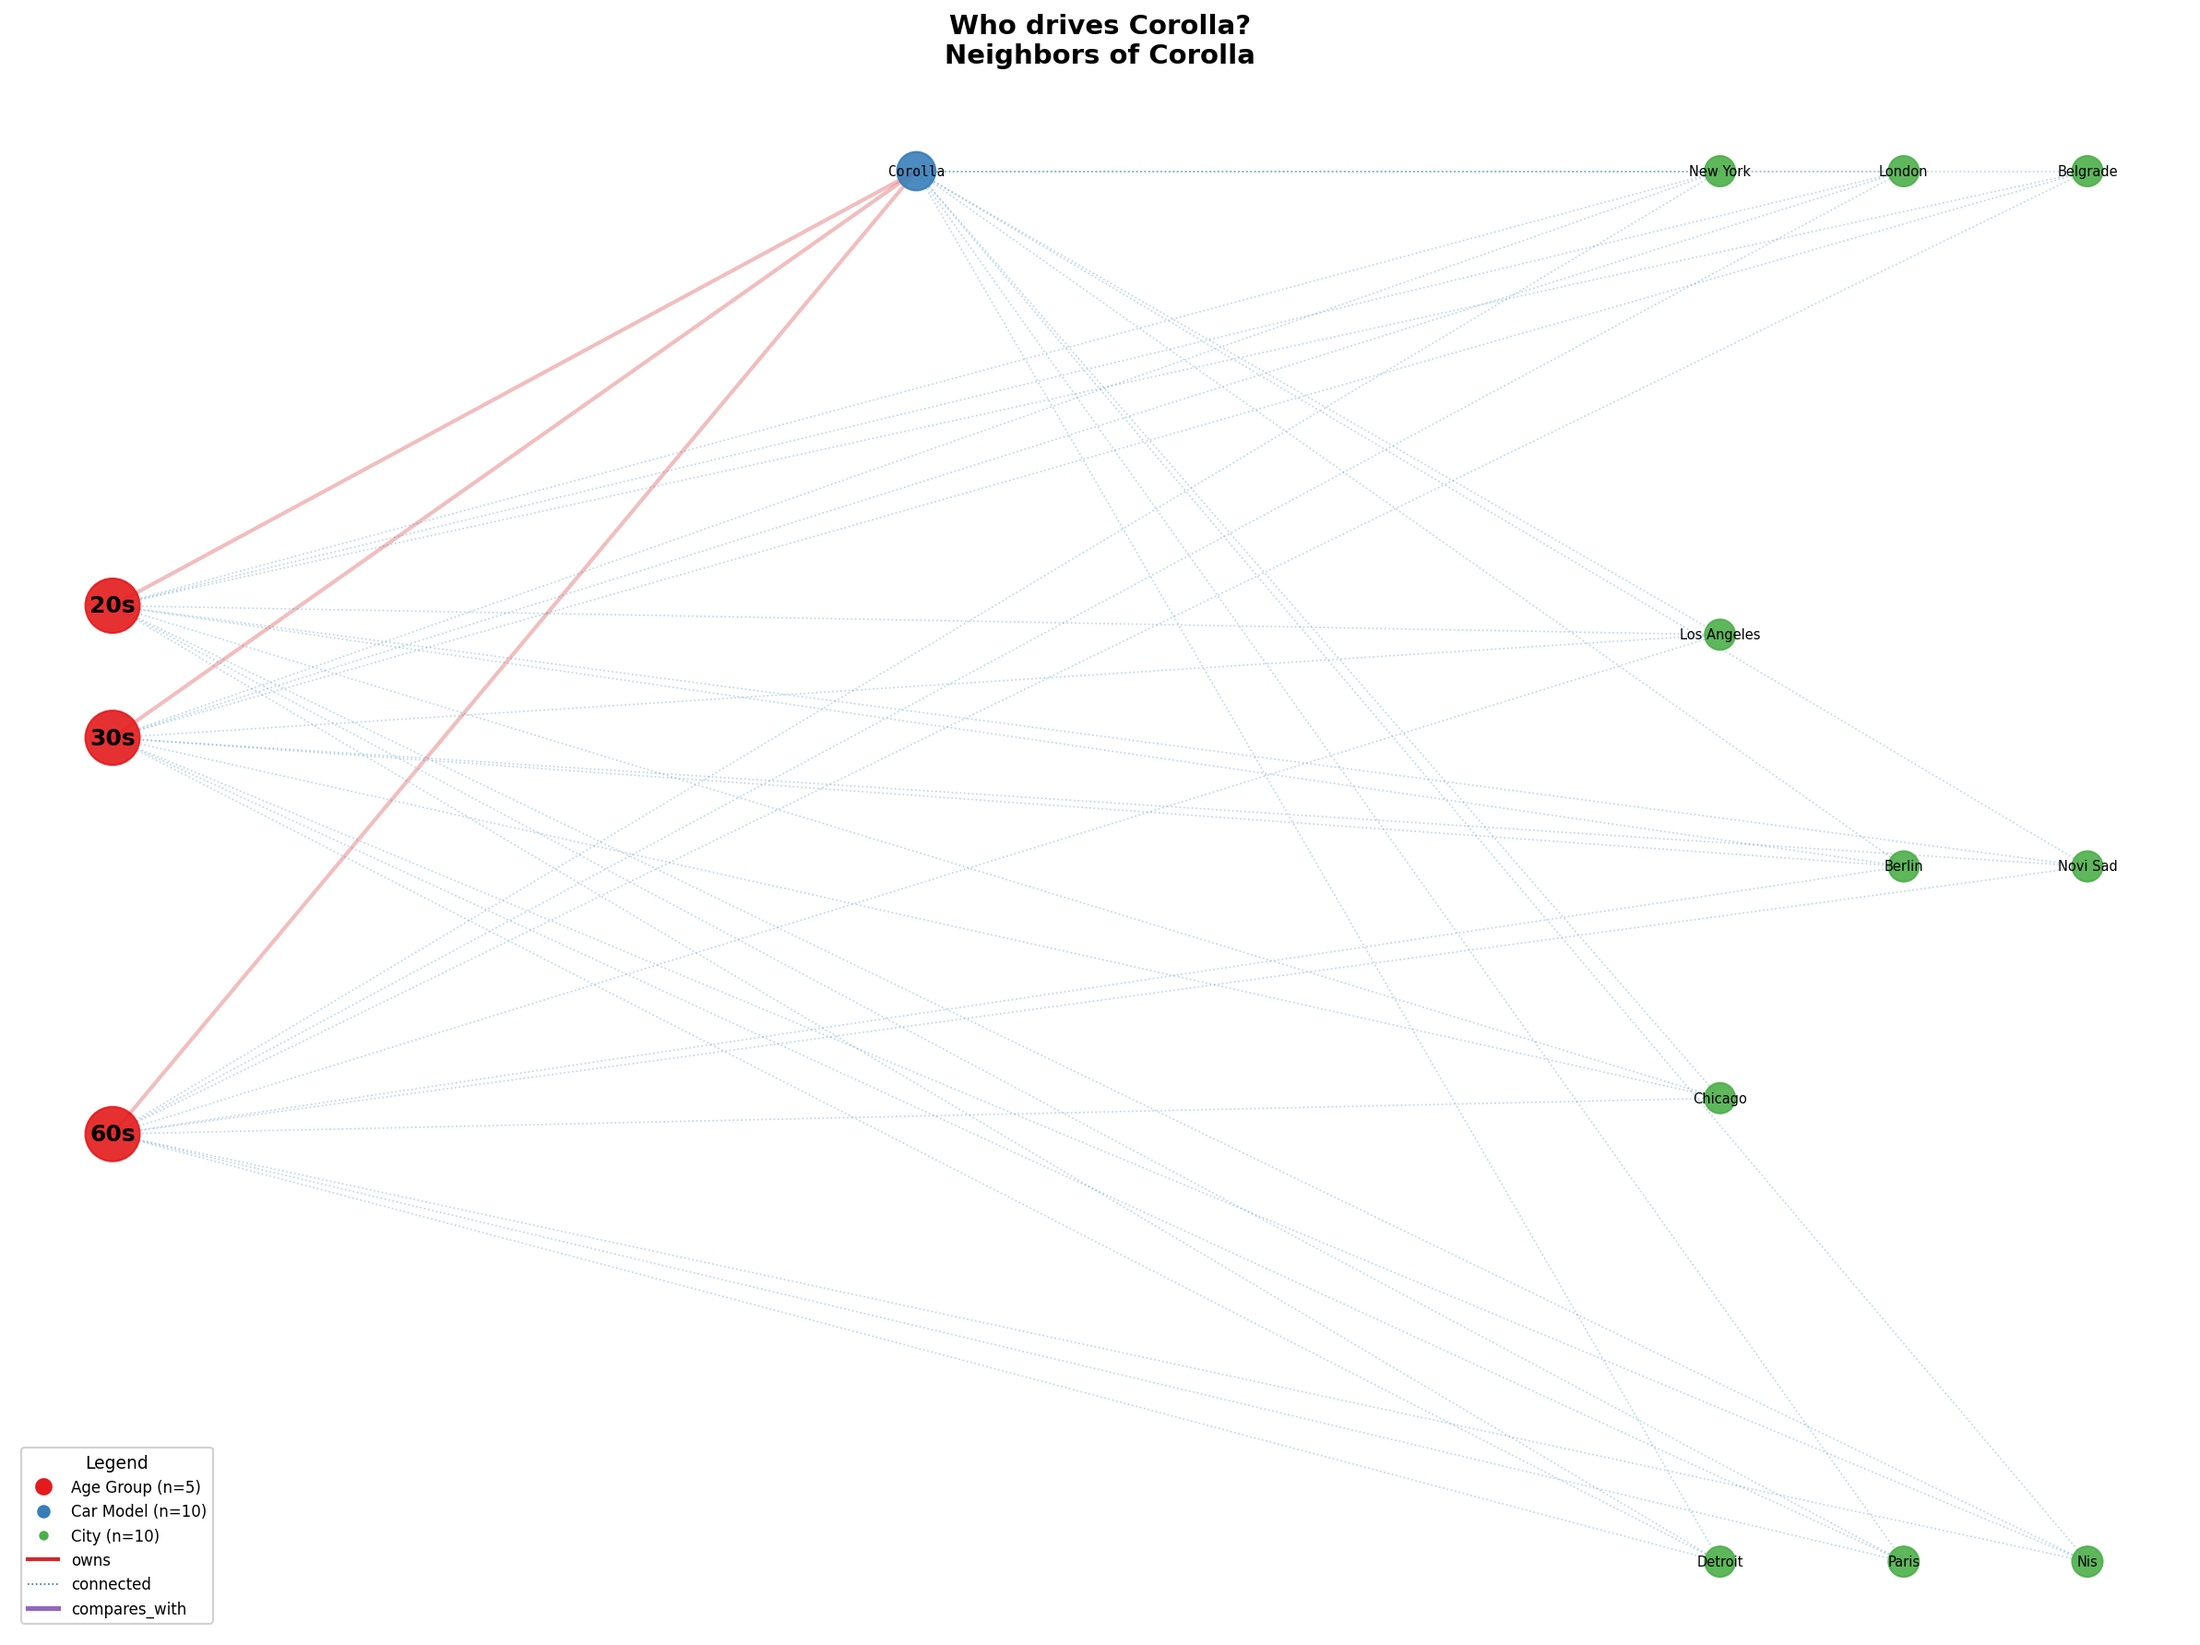
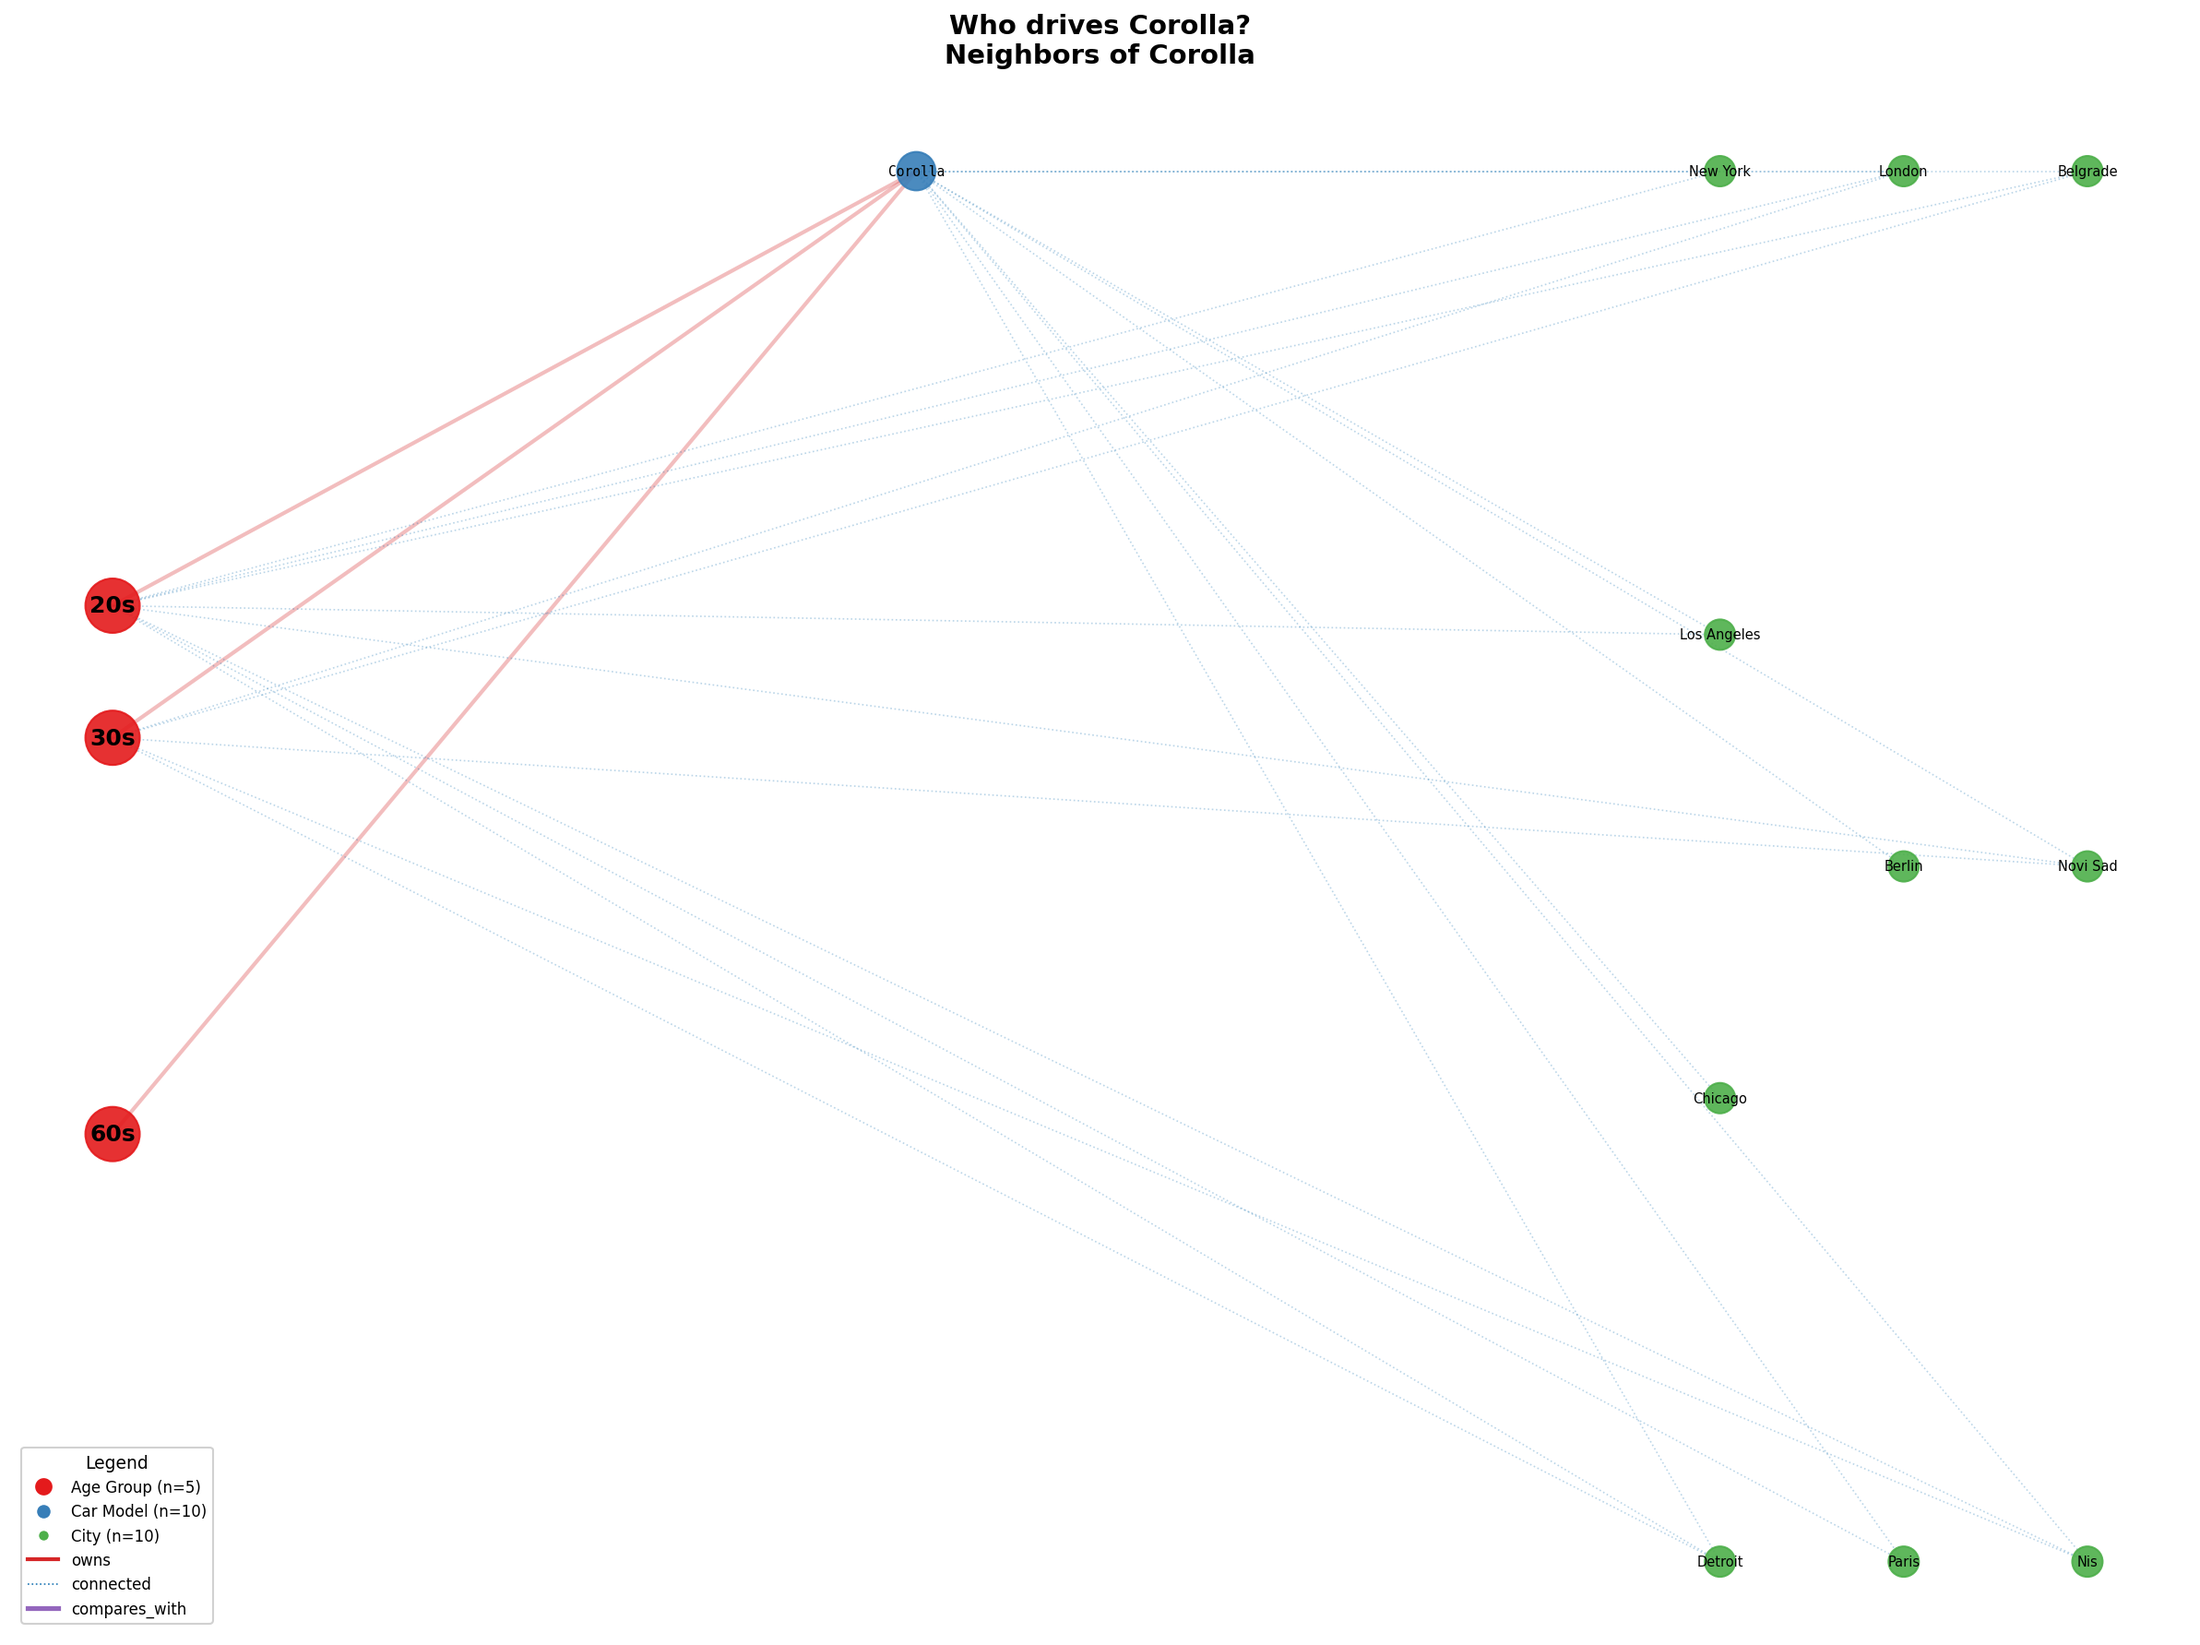
feat(examples): prune 32% of edges in example_3 for cleaner visualization
Reduce dense 'connected' edges by applying selective filtering:
- City↔car: keep ~70% of available cars per city (i % 10 < 7)
- City↔age: each city connects to 3/5 age groups (~60%)

Results: 161 → 109 edges, avg degree drops from 12.88 to 8.72.
Graph is significantly less cluttered while preserving all node
labels and the Corolla subgraph query.

diff --git a/examples/example_3.py b/examples/example_3.py
@@ -120,17 +120,19 @@ def demo_demographics():
             for car_id in car_ids:
                 G.add_edge(age, car_id, relation_type="owns")
 
-        # connected: city ↔ car
+        # connected: city ↔ car (limit each city to ~70% of available cars)
         for region, car_ids in CITY_CARS_BY_REGION.items():
             for city_id in CITY_AGE_CONNECTIONS[region]:
-                for car_id in car_ids:
-                    G.add_edge(city_id, car_id, relation_type="connected")
+                for i, car_id in enumerate(car_ids):
+                    if i % 10 < 7:  # ~70% retention
+                        G.add_edge(city_id, car_id, relation_type="connected")
 
-        # connected: city ↔ age
+        # connected: city ↔ age (each city connects to 3 out of 5 age groups)
         for region, city_ids in CITY_AGE_CONNECTIONS.items():
             for city_id in city_ids:
-                for age in AGE_GROUPS:
-                    G.add_edge(city_id, age, relation_type="connected")
+                for age_idx, age in enumerate(AGE_GROUPS):
+                    if (age_idx + hash(city_id) % 5) < 3:  # 3/5 = 60% retention
+                        G.add_edge(city_id, age, relation_type="connected")
 
         # compares_with: car ↔ car
         for comp in COMPARES_WITH:
